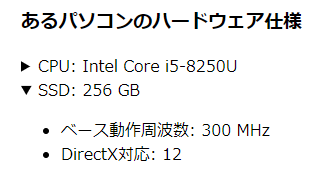
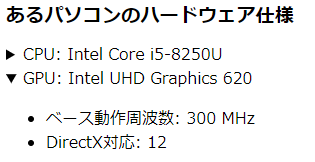
内容調整

diff --git a/md_text/3-10.md b/md_text/3-10.md
@@ -26,7 +26,7 @@
 </details>
 
 <details open>
-<summary>SSD: 256 GB</summary>
+<summary>GPU: Intel UHD Graphics 620</summary>
 <ul>
 <li>ベース動作周波数: 300 MHz</li>
 <li>DirectX対応: 12</li>
@@ -43,9 +43,9 @@
 <!-- 内容モデル -->
 `details`要素の内容モデルは、`summary`要素と"Flow"です。`summary`要素は必須であり、最初の子要素になっていなければなりません。`summary`要素は1つのみで、複数持つことはできません。
 
-`summary`要素がない場合は文法エラーとなりますが、この場合、ユーザーエージェントは要約文を独自に補って表示することがあります。多くの場合、「詳細」や"Details"といった単語が使われます。
+`summary`要素がない場合は構文上のエラーとなりますが、この場合、ユーザーエージェントは要約文を独自に補って表示することがあります。多くの場合、「詳細」や"Details"といった単語が使われます。
 
-`summary`要素の後ろには任意の"Flow"のコンテンツを置くことができます。`details`要素が展開された状態になると、これらが表示されることになります。
+`summary`要素の後ろには任意の"Flow"のコンテンツを置くことができます。`details`要素が展開された状態になると、残りのコンテンツが表示されることになります。
 <!-- /内容モデル -->
 
 <!-- a11y note -->
